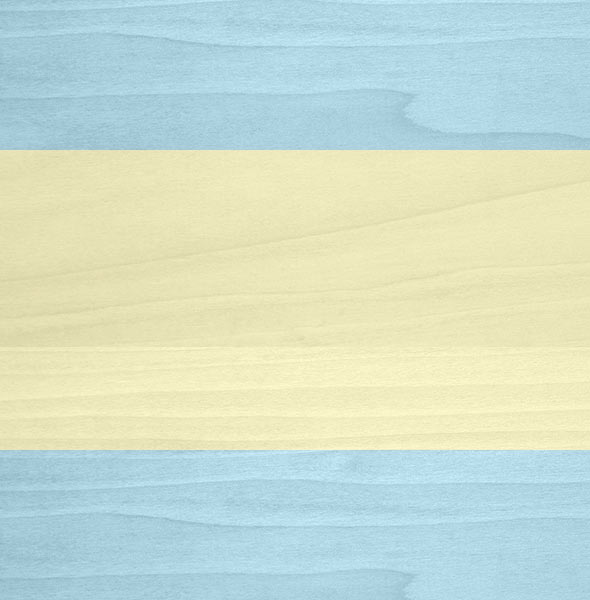
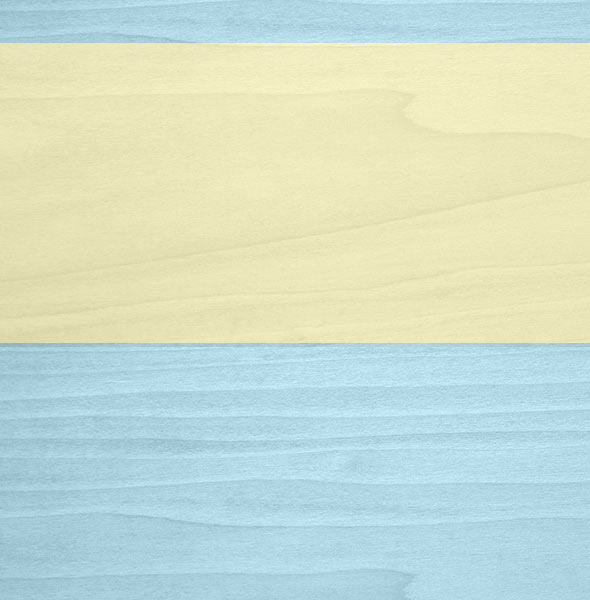
Adding code to scroll the alphabet

diff --git a/app/styles/_custom.scss b/app/styles/_custom.scss
@@ -1,4 +1,4 @@
-$light-blue: #9cc9d9;
+$reserved-overlay: #808080;
 $dark-blue: #1b121b;
 
 html.alphabet {
@@ -9,6 +9,18 @@ body.alphabet-app {
     height: 480px;
     margin: auto;
     color: $dark-blue;
+    position: relative;
+
+	a {	
+		text-decoration: none;
+		
+		&:link, &:visited {
+			color: $dark-blue;
+		}
+		&:hover, &:active {
+			color: #337ab7;
+		}
+	}
 }
 .reserved-header {
 	background: #333 url(../img/bg-header.jpg) 50% 0 no-repeat;
@@ -33,13 +45,32 @@ body.alphabet-app {
 	width: 50px;
 	height: 50px;
 }
+.tray-button {
+	position: absolute;
+	bottom: 0;
+	right: 0;
+	width: 210px;
+	height: 80px;
+	background-color: rgba(0,0,0,0.6);
+}
 .alphabet-container {
 	float: left;
 	width: 590px;
 	height: 390px;
-	background: transparent url(../img/bg-game-offset.jpg) 0 0 repeat-y;	
+	background: transparent url(../img/bg-game.jpg) 0 0 repeat-y;	
 	overflow: hidden;
-	padding-left: 17px;
+	padding: 55px 0 0 17px;
+}
+.scroll-container {
+	width: 573px;
+	height: 390px;
+	overflow: hidden;
+	position: relative;
+}
+.scrolling-gameboard {
+	position: absolute;
+	width: 573px;
+	left: 0;
 }
 .letter {
 	width: 123px;

diff --git a/app/js/services/letterlist.factory.js b/app/js/services/letterlist.factory.js
@@ -6,11 +6,24 @@
 		letters.alphabetInit = ["a","b","c","d","e","f","g","h","i","j","k","l","m","n","o","p","q","r","s","t","u","v","w","x","y","z"];
 		letters.currentAlphabet = letters.alphabetInit;
 		letters.toggleLetterOff = function(index){
-			console.log("You toggled me off!");
 			letters.currentAlphabet.splice(index,1);
-
-
-			console.log("You toggled me off!" + letters.currentAlphabet);
+		};
+		letters.scroll = function(currentIndex){
+			console.log("You clicked scroll " + currentIndex);
+			switch(currentIndex){
+				case 0:
+					currentIndex = 300;
+					break;
+				case 300:
+					currentIndex = 600;
+					break;
+				case 600:
+					currentIndex = 0;
+					break;
+				default:
+					currentIndex = 0;
+			}
+			return currentIndex;
 		};
 
 		return letters;

diff --git a/app/assets/partials/game.html b/app/assets/partials/game.html
@@ -1,9 +1,13 @@
 <div class="gameboard clearfix" ng-controller="GameCtrl as game">
 	<div class="alphabet-container">
-		<a class="letter" ng-repeat="letter in game.letterSet" ng-click="game.toggleLetterOff($index)">{{letter}}</a>
+		<div class="scroll-container">
+			<div class="scrolling-gameboard clearfix" style="top:-{{game.scrollOffset}}px">
+				<a class="letter" ng-repeat="letter in game.letterSet" ng-click="game.toggleLetterOff($index)">{{letter}}</a>
+			</div>
+		</div>
 	</div>
 	<div class="game-sidebar">
-		<img class="scroll-button" src="img/scroll-button.png">
+		<a href="" ng-click="game.scroll(game.scrollOffset)" class="scroll-button"><img src="img/scroll-button.png"></a>
 	</div>
 </div>
 

diff --git a/app/js/controllers/game.ctrl.js b/app/js/controllers/game.ctrl.js
@@ -2,7 +2,11 @@ angular.module('app').controller('GameCtrl', GameCtrl);
 
 function GameCtrl(letterList) {
 	var game = this;
-	game.sidebar = "Put the sidebar here.";
 	game.letterSet = letterList.currentAlphabet;
 	game.toggleLetterOff = letterList.toggleLetterOff;
+	game.scrollOffset = 0;
+	game.scroll =  function(){
+		game.scrollOffset = letterList.scroll(game.scrollOffset);
+		console.log(game.scrollOffset);
+	};
 }

diff --git a/app/assets/index.html b/app/assets/index.html
@@ -9,6 +9,7 @@
 	    <base href="/" />
     </head>
     <body class="alphabet-app" ng-controller="AppCtrl as appctrl">
+        <div class="tray-button"></div>
         <div class="reserved-header">
             <div class="close-button">
                 <img src="img/close.png"/>
